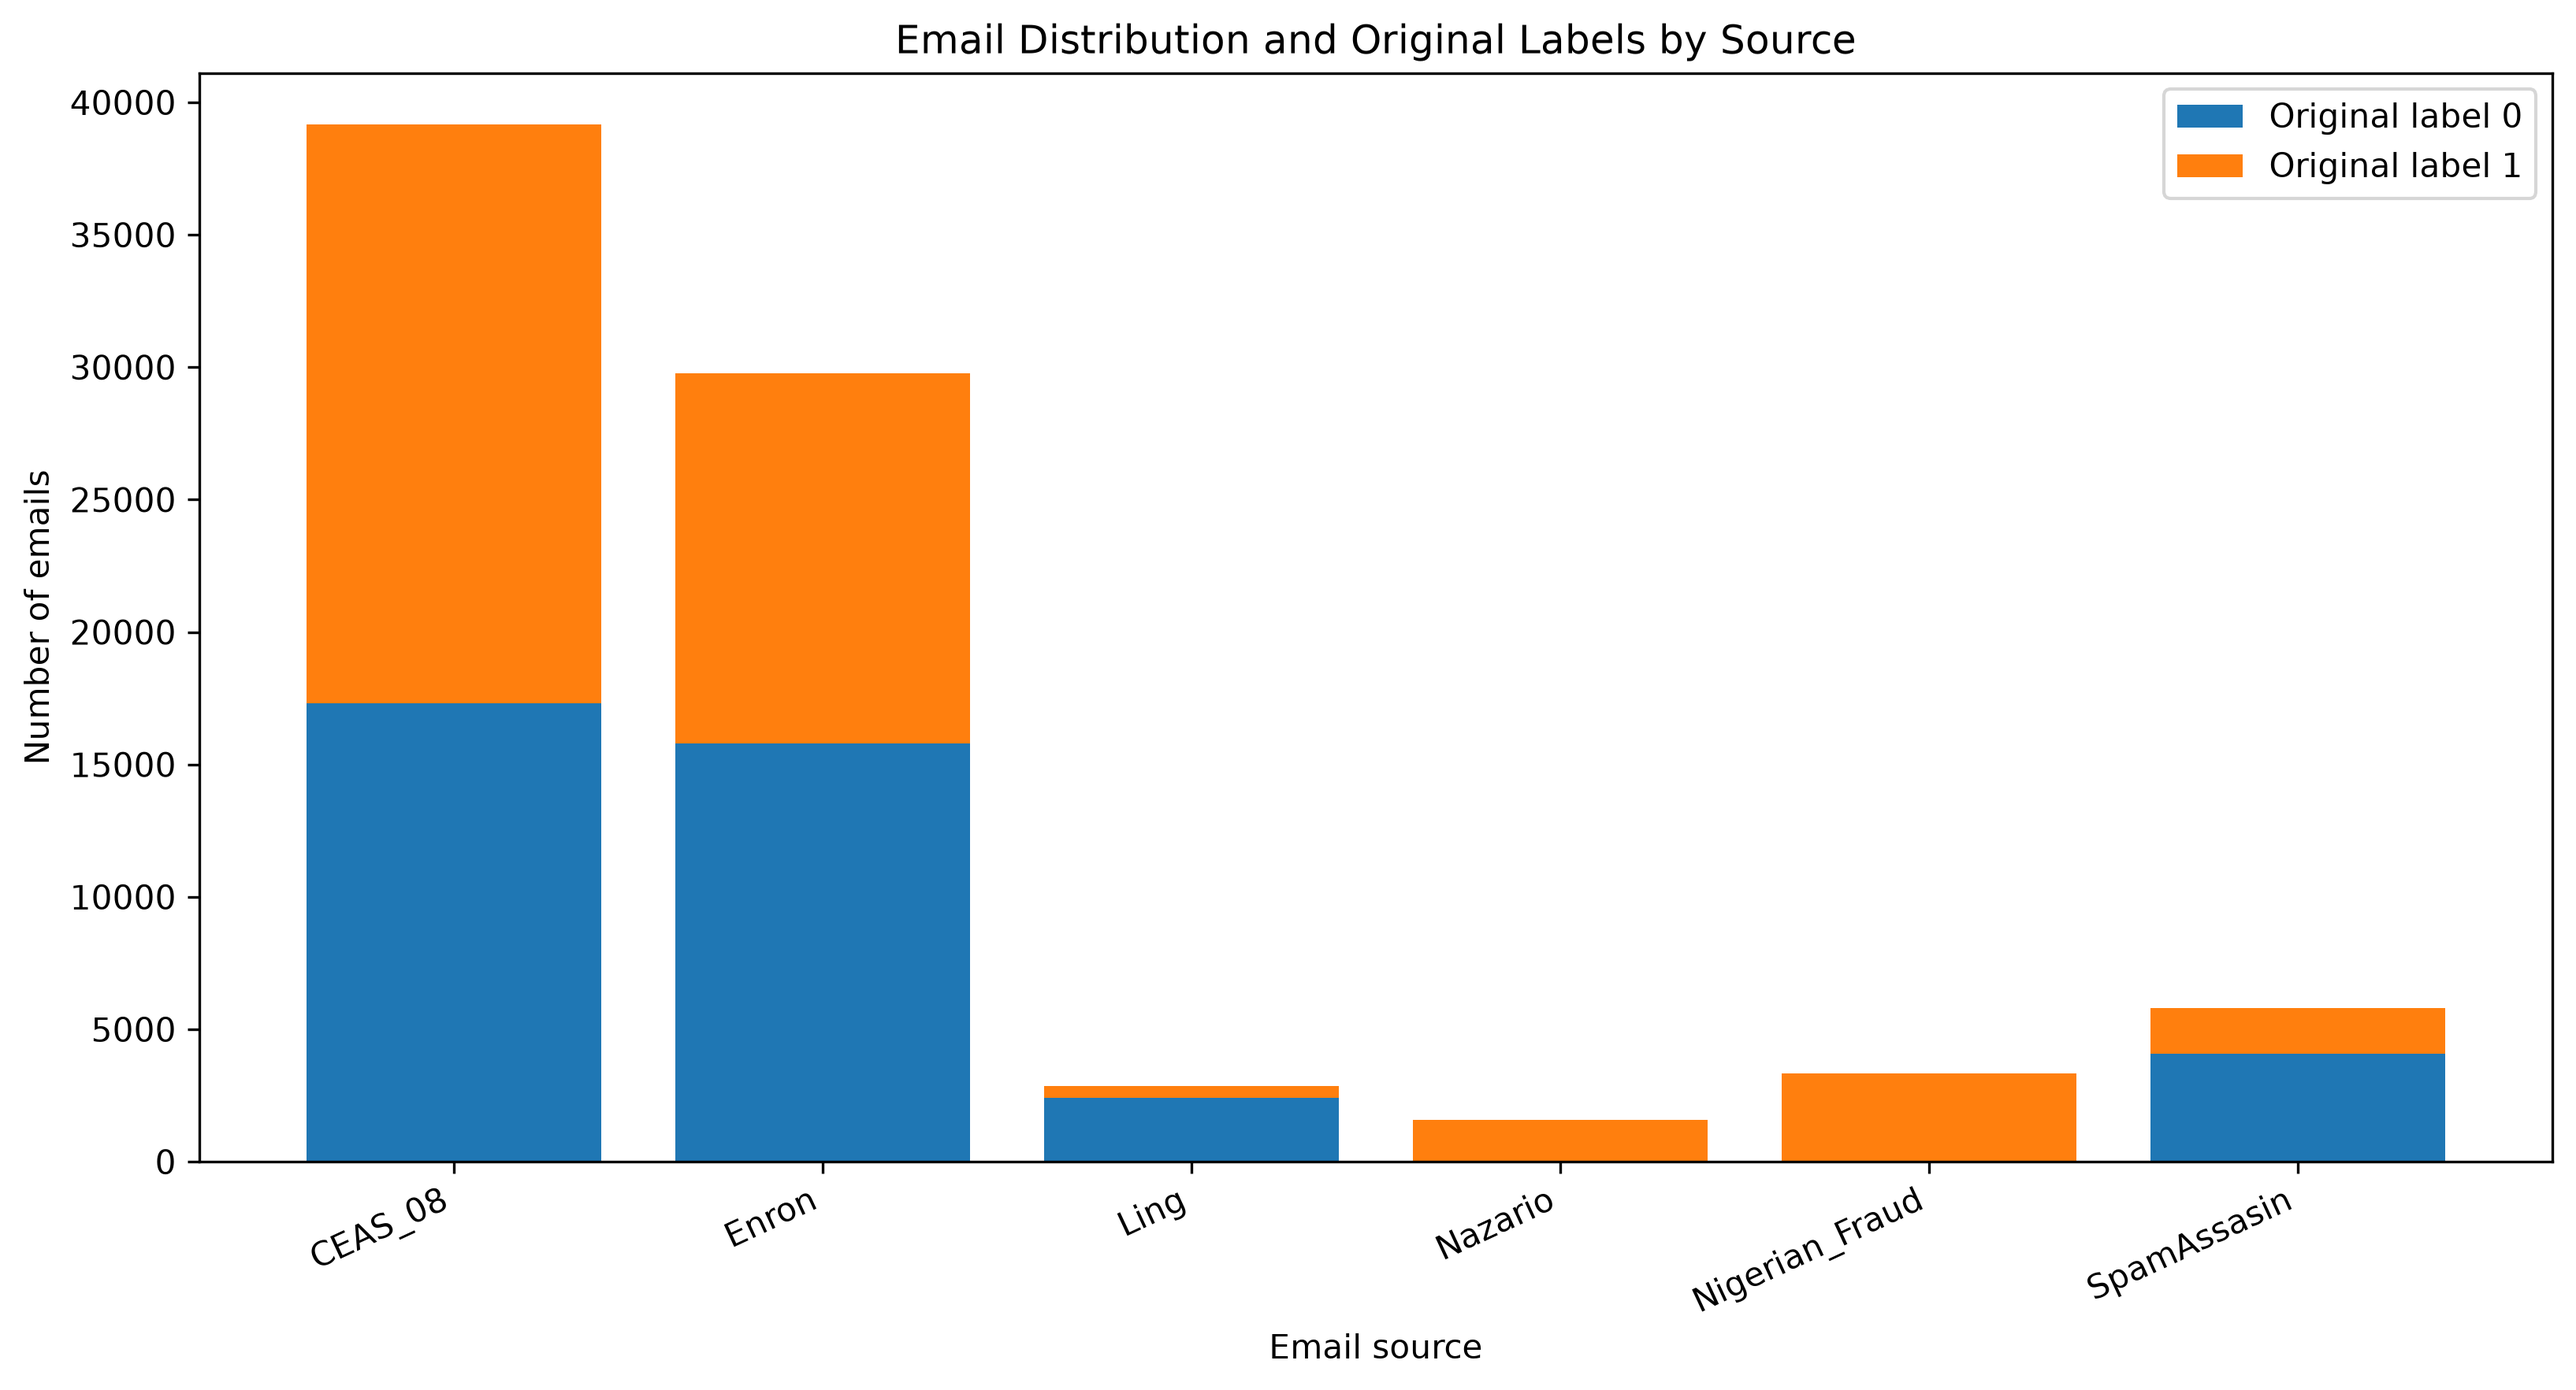
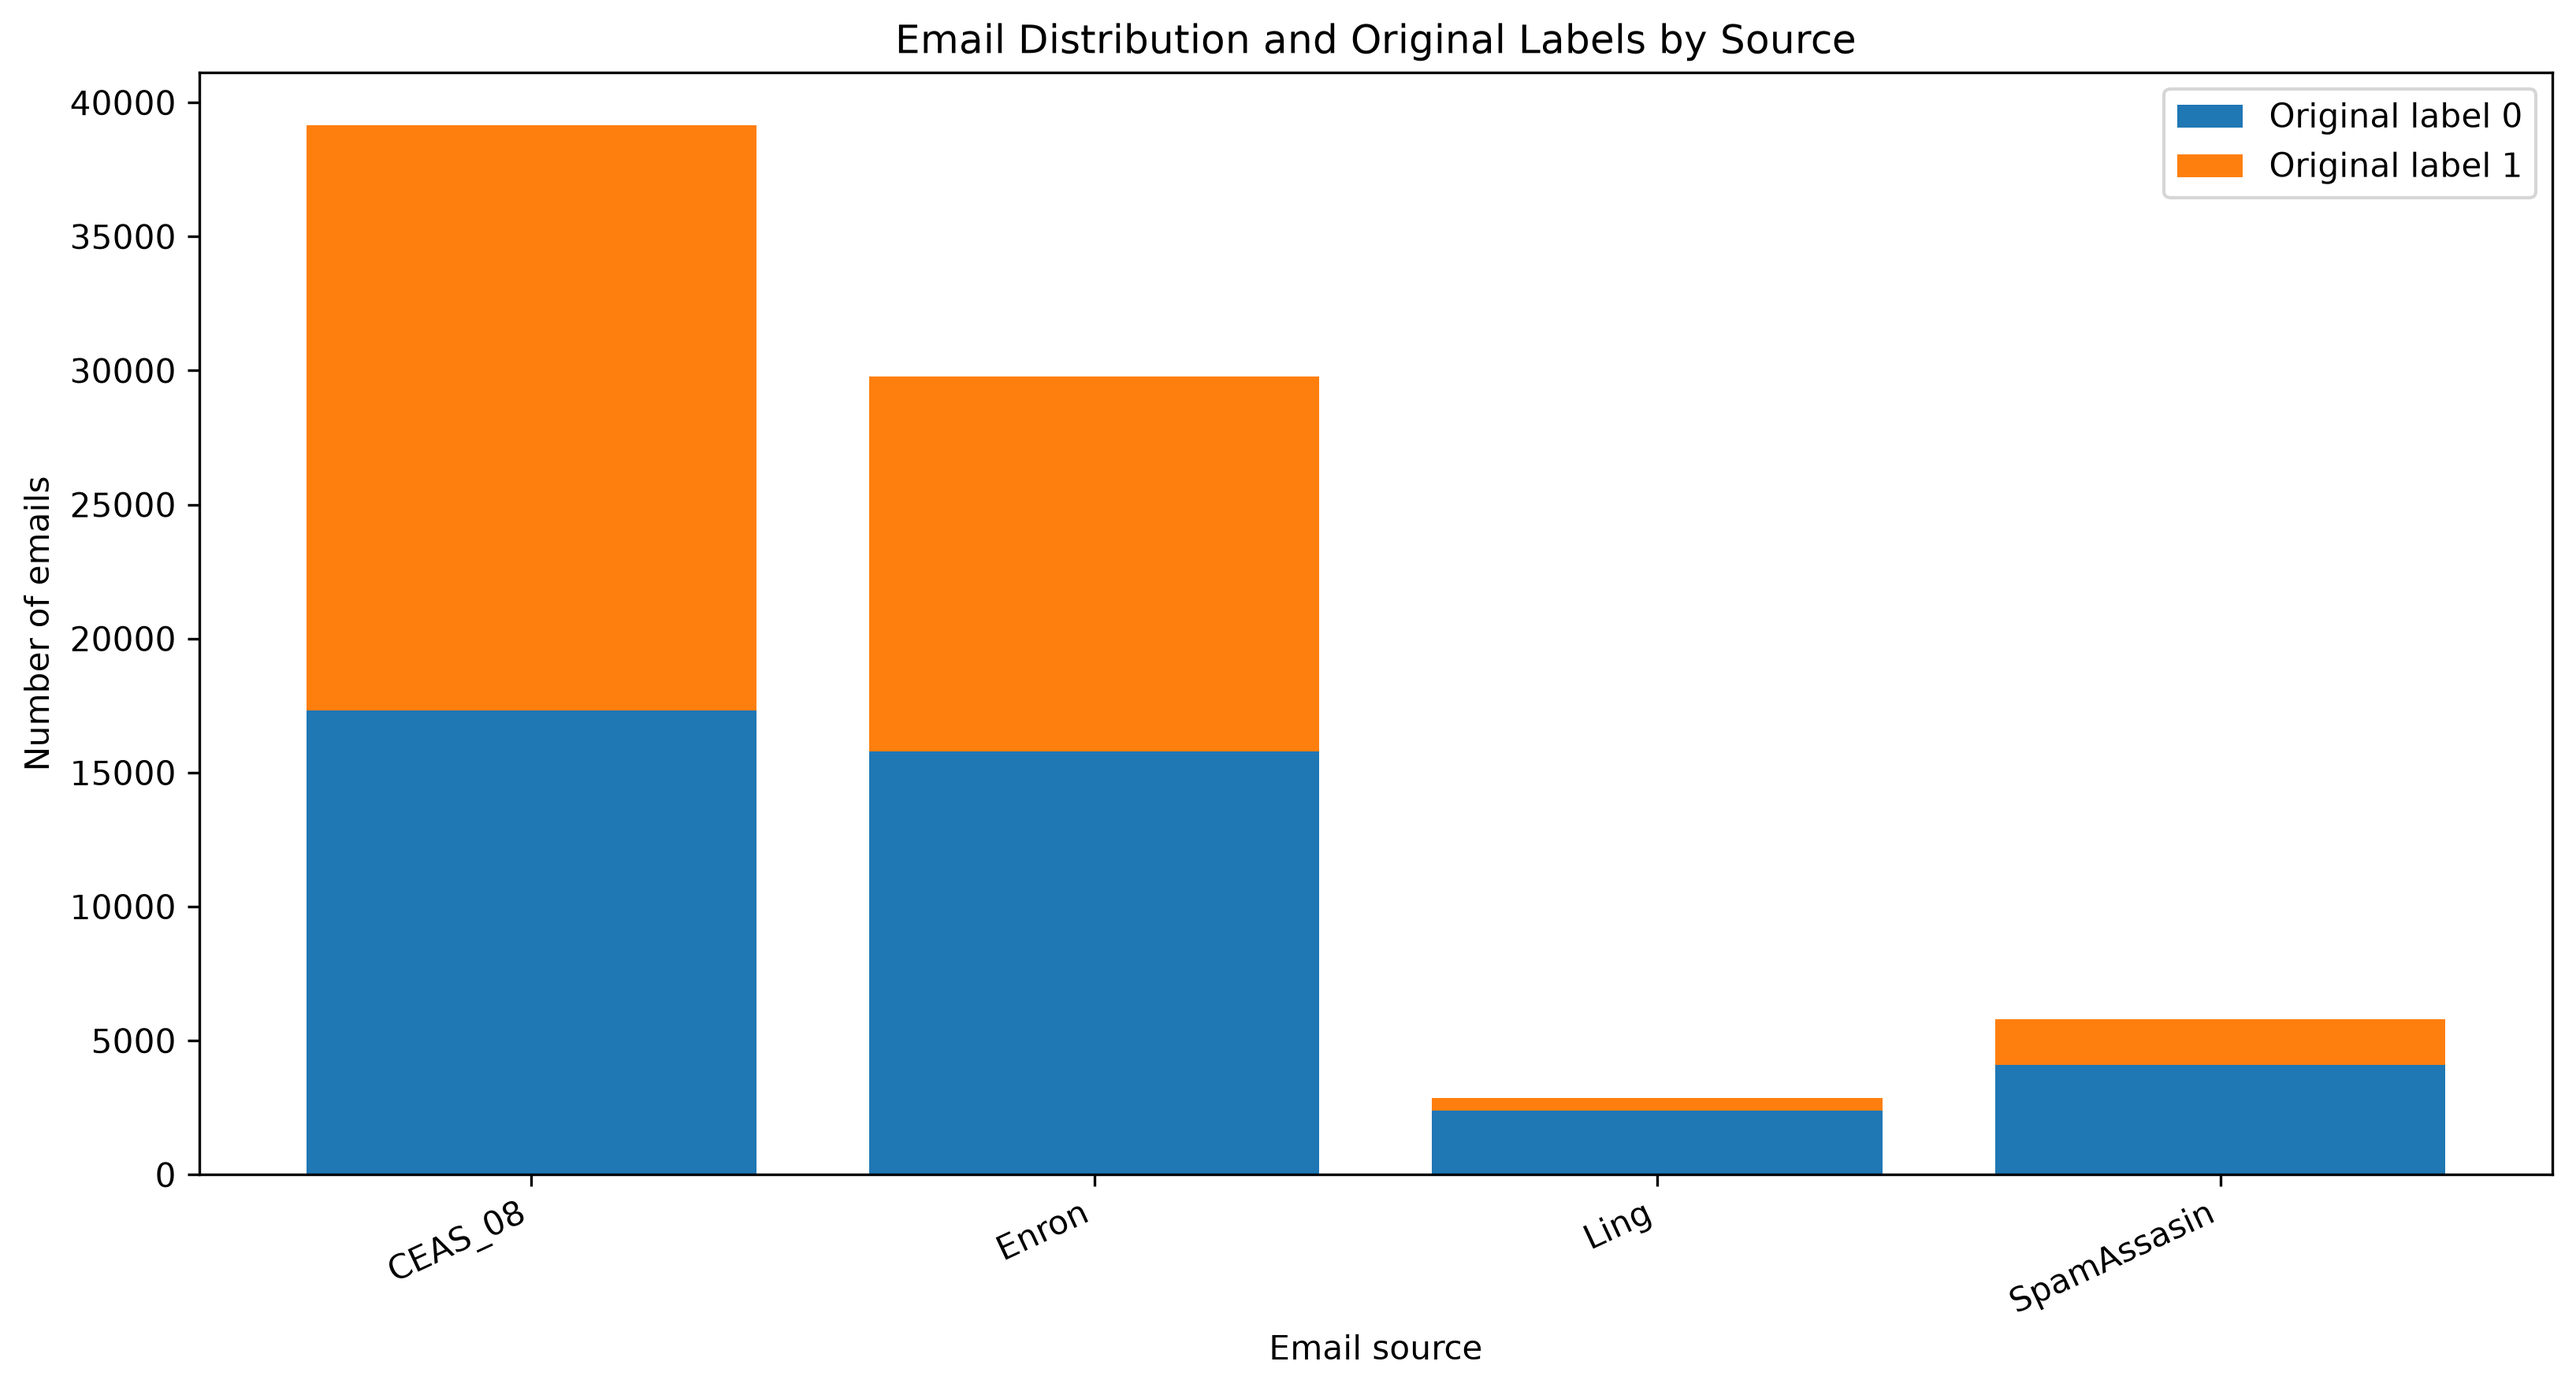
Deliverable 2 - Updated EDA and Spam Dataset Cleaning
Continued working on Deliverable 2 using the revised spam detection dataset.

- Updated all three EDA graphs to reflect the four selected corpora.
- Preserved the original six-source graphs for reference.
- Updated email length and URL distribution summaries.
- Added a cleaning script to handle missing text and normalize whitespace.
- Created a cleaned modeling dataset with 77,589 usable emails.
- Confirmed that no records needed to be excluded during text cleaning.

Next: Create train/validation/test splits and run the Logistic Regression baseline.

diff --git a/src/13_clean_spam_dataset.py b/src/13_clean_spam_dataset.py
@@ -1,0 +1,105 @@
+
+from pathlib import Path
+import pandas as pd
+
+# Project folders
+project_dir = Path(__file__).resolve().parents[1]
+data_dir = project_dir / "data"
+results_dir = project_dir / "results"
+
+results_dir.mkdir(exist_ok=True)
+
+# Load our prepared spam dataset with duplicate group IDs
+df = pd.read_csv(
+    data_dir / "spam_with_duplicate_groups.csv",
+    low_memory=False
+)
+
+print("\n===== BEFORE CLEANING =====")
+print(f"Total emails: {len(df):,}")
+
+# Preserve the original subject and body columns.
+# Create separate cleaned versions for modeling.
+
+def clean_text(value):
+    if pd.isna(value):
+        return ""
+
+    # Remove extra spaces, tabs, and line breaks.
+    return " ".join(str(value).split())
+
+# Identify missing or empty text before cleaning.
+subject_missing = (
+    df["subject"].fillna("").astype(str).str.strip() == ""
+)
+
+body_missing = (
+    df["body"].fillna("").astype(str).str.strip() == ""
+)
+
+print(f"Missing or empty subjects: {subject_missing.sum():,}")
+print(f"Missing or empty bodies: {body_missing.sum():,}")
+
+# Clean subject and body separately.
+df["clean_subject"] = df["subject"].apply(clean_text)
+df["clean_body"] = df["body"].apply(clean_text)
+
+# Combine subject and body into one modeling field.
+df["model_text"] = (
+    df["clean_subject"] + " " + df["clean_body"]
+).str.strip()
+
+# Identify records with no usable text.
+unusable = df["model_text"].eq("")
+
+print(f"Emails with no usable text: {unusable.sum():,}")
+
+# Keep track of how many records were excluded.
+original_count = len(df)
+excluded_count = int(unusable.sum())
+
+# Keep emails with at least some usable text.
+cleaned_df = df.loc[~unusable].copy()
+
+# Check that duplicate group IDs were preserved.
+assert cleaned_df["duplicate_group_id"].notna().all()
+
+# Save cleaned dataset locally.
+cleaned_df.to_csv(
+    data_dir / "spam_cleaned.csv",
+    index=False
+)
+
+# Create a summary for our report.
+summary = [
+    {"metric": "original_records", "count": original_count},
+    {"metric": "missing_or_empty_subjects", "count": int(subject_missing.sum())},
+    {"metric": "missing_or_empty_bodies", "count": int(body_missing.sum())},
+    {"metric": "records_excluded_no_text", "count": excluded_count},
+    {"metric": "cleaned_records", "count": len(cleaned_df)},
+    {"metric": "legitimate_records", "count": int((cleaned_df["project_label"] == 0).sum())},
+    {"metric": "spam_records", "count": int((cleaned_df["project_label"] == 1).sum())},
+    {"metric": "unique_duplicate_groups", "count": cleaned_df["duplicate_group_id"].nunique()}
+]
+
+summary_df = pd.DataFrame(summary)
+
+summary_df.to_csv(
+    results_dir / "spam_cleaning_summary.csv",
+    index=False
+)
+
+print("\n===== AFTER CLEANING =====")
+print(f"Original emails: {original_count:,}")
+print(f"Excluded emails: {excluded_count:,}")
+print(f"Cleaned emails: {len(cleaned_df):,}")
+
+print("\n===== CLEANED CLASS DISTRIBUTION =====")
+print(cleaned_df["project_label"].value_counts().sort_index())
+
+print("\n===== DUPLICATE GROUPS =====")
+print(f"Unique groups preserved: {cleaned_df['duplicate_group_id'].nunique():,}")
+
+print("\n===== FILES SAVED =====")
+print("data/spam_cleaned.csv")
+print("results/spam_cleaning_summary.csv")

diff --git a/src/09_eda_url_distribution.py b/src/09_eda_url_distribution.py
@@ -5,8 +5,6 @@ import matplotlib.pyplot as plt
 
 sources = [
     "CEAS_08",
-    "Nazario",
-    "Nigerian_Fraud",
     "SpamAssasin"
 ]
 

diff --git a/src/07_eda_source_distribution.py b/src/07_eda_source_distribution.py
@@ -7,8 +7,6 @@ sources = [
     "CEAS_08",
     "Enron",
     "Ling",
-    "Nazario",
-    "Nigerian_Fraud",
     "SpamAssasin"
 ]
 

diff --git a/src/08_eda_email_length.py b/src/08_eda_email_length.py
@@ -7,8 +7,6 @@ sources = [
     "CEAS_08",
     "Enron",
     "Ling",
-    "Nazario",
-    "Nigerian_Fraud",
     "SpamAssasin"
 ]
 
